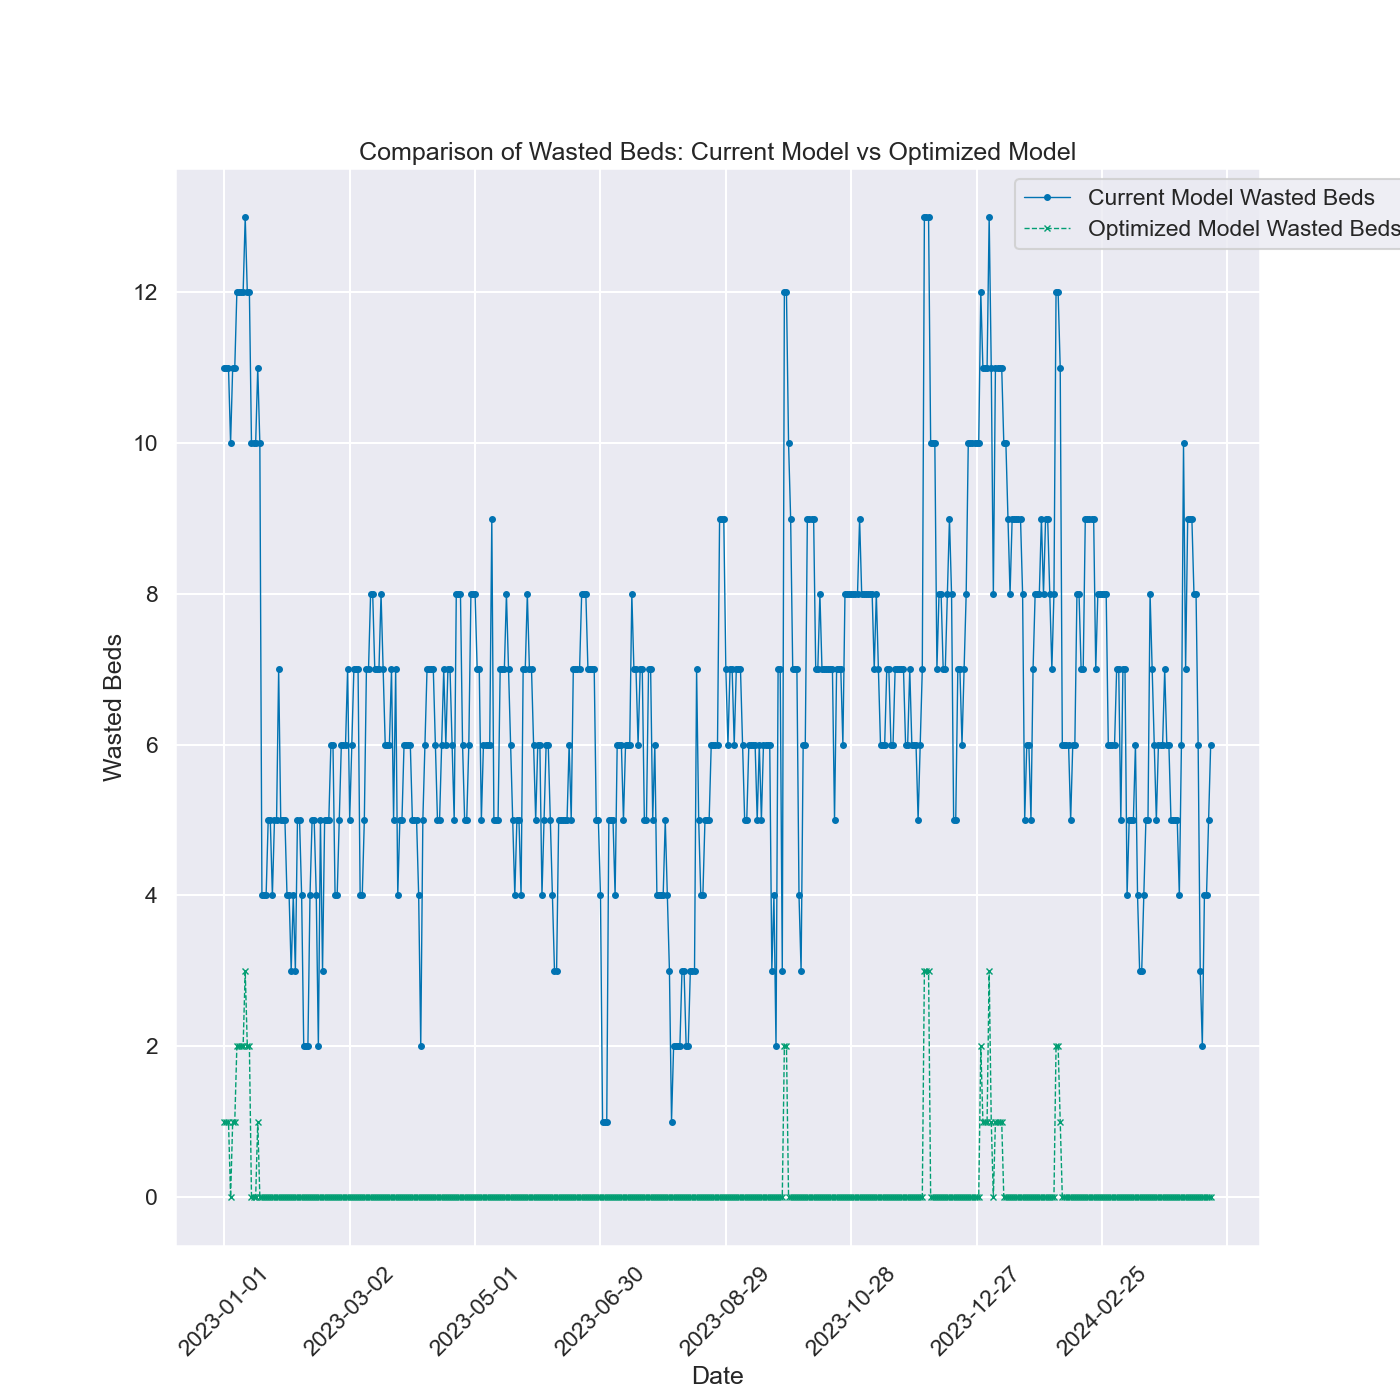
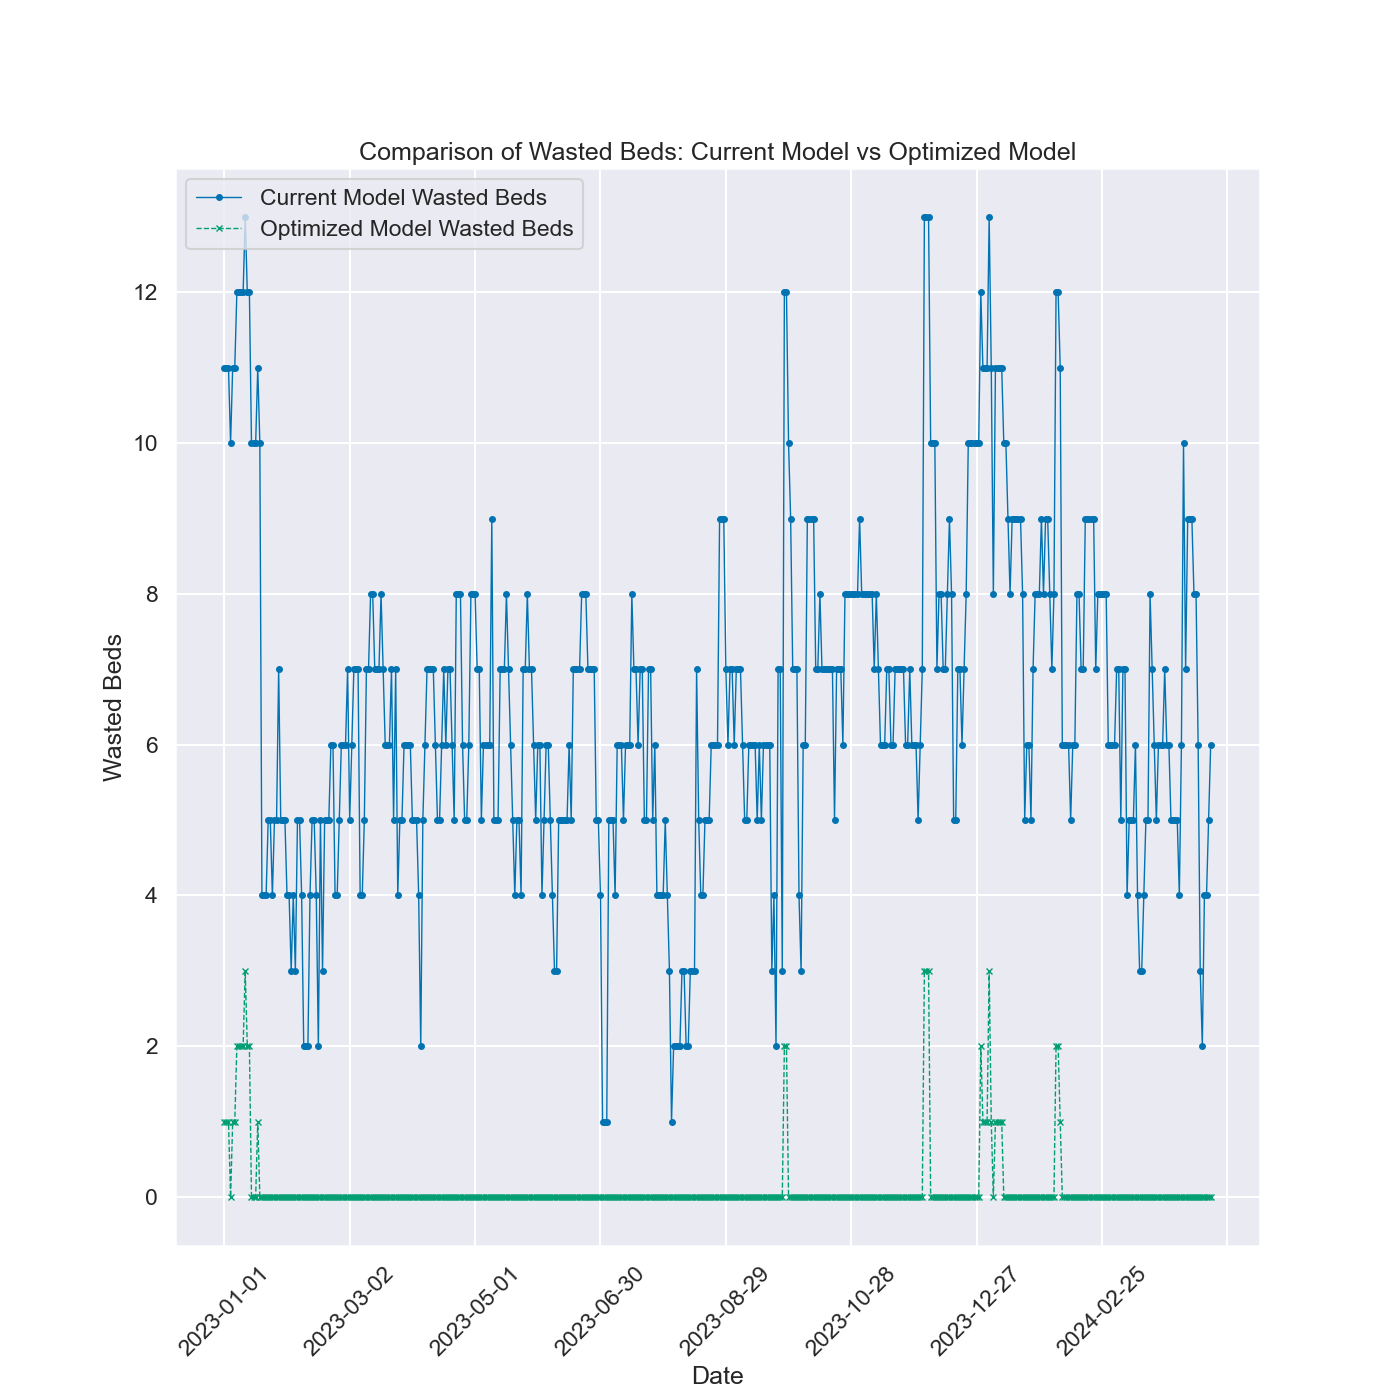
moving label

Changed region(s): [[0.7371, 0.1229, 1.0, 0.1843], [0.1536, 0.1229, 0.43, 0.1843]]

diff --git a/visualizer.py b/visualizer.py
@@ -9,7 +9,6 @@ class Visualizer:
     def __init__(self, current_data, optimized_data):
         self.current_data = current_data
         self.optimized_data = optimized_data
-
     def plot_wasted_beds_comparison(self, plot_path):
         plt.figure(figsize=(14, 14))
         plt.plot(self.current_data['Date'], self.current_data['Wasted Beds'], label='Current Model Wasted Beds', marker='o', linestyle='-', linewidth=1, markersize=4, color=sns.color_palette("colorblind")[0])
@@ -17,7 +16,7 @@ class Visualizer:
         plt.xlabel('Date')
         plt.ylabel('Wasted Beds')
         plt.title('Comparison of Wasted Beds: Current Model vs Optimized Model')
-        plt.legend(loc='upper right', bbox_to_anchor=(1.15, 1))
+        plt.legend(loc='upper left')  # Legend moved to the top left
         plt.grid(True)
         
         # Improve date label readability
@@ -34,7 +33,7 @@ class Visualizer:
         plt.xlabel('Date')
         plt.ylabel('Wasted Potential')
         plt.title('Comparison of Wasted Potential: Current Model vs Optimized Model')
-        plt.legend(loc='upper right', bbox_to_anchor=(1.15, 1))
+        plt.legend(loc='upper left')  # Legend moved to the top left
         plt.grid(True)
 
         # Improve date label readability
@@ -51,7 +50,7 @@ class Visualizer:
         plt.xlabel('Date')
         plt.ylabel('Daily Efficiency')
         plt.title('Comparison of Daily Efficiency: Current Model vs Optimized Model')
-        plt.legend(loc='upper right', bbox_to_anchor=(1.15, 1))
+        plt.legend(loc='upper left')  # Legend moved to the top left
         plt.grid(True)
 
         # Improve date label readability
@@ -68,7 +67,7 @@ class Visualizer:
         plt.xlabel('Date')
         plt.ylabel('Cumulative Efficiency')
         plt.title('Comparison of Cumulative Efficiency: Current Model vs Optimized Model')
-        plt.legend(loc='upper right', bbox_to_anchor=(1.15, 1))
+        plt.legend(loc='upper left')  # Legend moved to the top left
         plt.grid(True)
 
         # Improve date label readability
